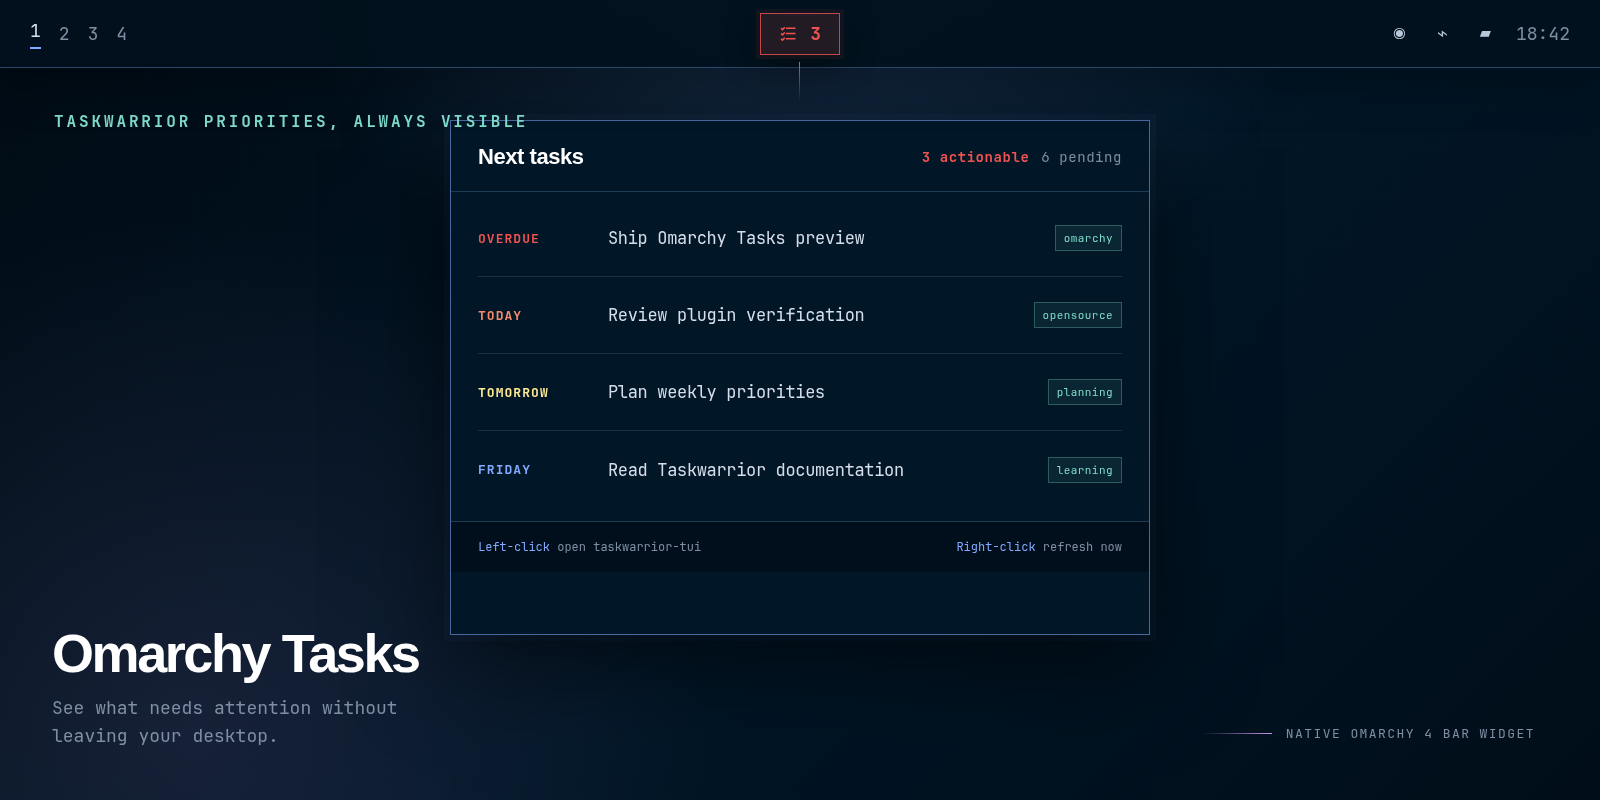
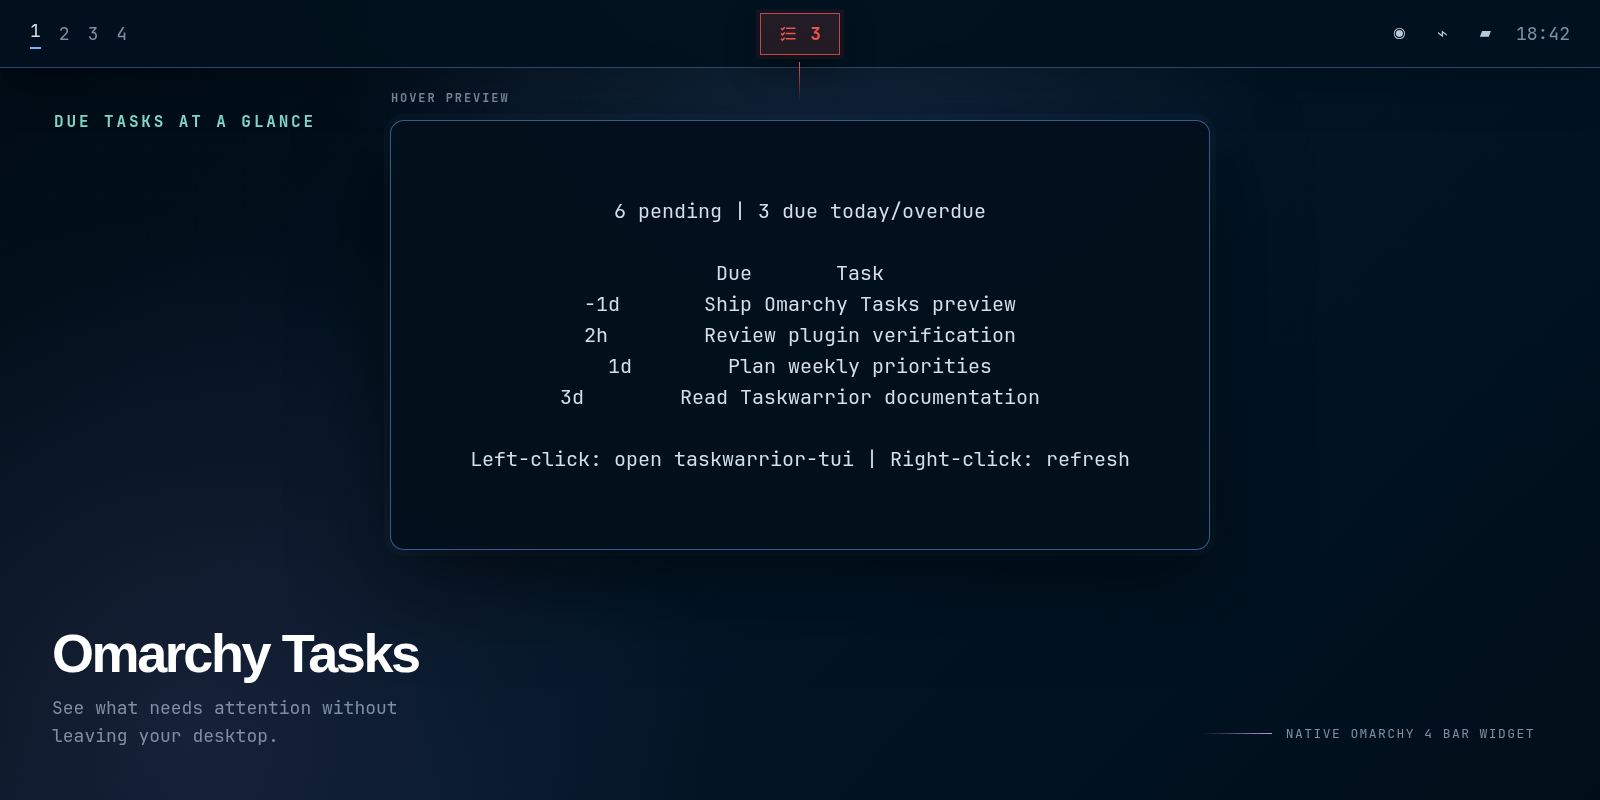
Align preview and dependency onboarding

diff --git a/BarWidget.qml b/BarWidget.qml
@@ -50,9 +50,9 @@ BarWidget {
     if (!root.bar) return
 
     if (!root.taskwarriorAvailable) {
-      root.bar.run("omarchy launch floating terminal with presentation omarchy pkg add task taskwarrior-tui")
+      root.bar.run("omarchy launch floating terminal with presentation \"omarchy pkg add task taskwarrior-tui && omarchy-shell io.github.janhesters.tasks refresh\"")
     } else if (!root.taskwarriorTuiAvailable) {
-      root.bar.run("omarchy launch floating terminal with presentation omarchy pkg add taskwarrior-tui")
+      root.bar.run("omarchy launch floating terminal with presentation \"omarchy pkg add taskwarrior-tui && omarchy-shell io.github.janhesters.tasks refresh\"")
     } else {
       root.bar.run("omarchy launch or focus tui taskwarrior-tui")
     }
@@ -64,7 +64,7 @@ BarWidget {
     return "open taskwarrior-tui"
   }
 
-  visible: !taskwarriorAvailable || total > 0 || showWhenEmpty
+  visible: !taskwarriorAvailable || !taskwarriorTuiAvailable || total > 0 || showWhenEmpty
   implicitWidth: visible ? button.implicitWidth : 0
   implicitHeight: visible ? button.implicitHeight : 0
 
@@ -113,7 +113,7 @@ BarWidget {
     active: root.actionable > 0 || !root.taskwarriorAvailable || !root.taskwarriorTuiAvailable
     activeColor: Color.urgent
     useActiveColor: true
-    dimmed: root.taskwarriorAvailable && root.total === 0
+    dimmed: root.taskwarriorAvailable && root.taskwarriorTuiAvailable && root.total === 0
     tooltipText: root.taskTooltip + "\n\nLeft-click: " + root.primaryActionLabel() + " | Right-click: refresh"
     onPressed: function(buttonCode) {
       if (buttonCode === Qt.RightButton) root.refresh()

diff --git a/README.md b/README.md
@@ -15,7 +15,7 @@ omarchy pkg add task taskwarrior-tui
 omarchy plugin add https://github.com/janhesters/omarchy-tasks.git --enable
 ```
 
-Omarchy plugins cannot install system packages. This is why the marketplace marks the plugin as requiring manual setup. If you add the plugin first, left-click its warning icon to open the same Omarchy package command in a terminal.
+The standard `omarchy plugin add … --enable` flow clones, validates, and enables the plugin but does not install system packages, so the marketplace marks this plugin as requiring manual setup. If you add the plugin first, left-click its warning icon to run the required Omarchy package installation in a visible terminal.
 
 ## What you get
 
@@ -52,7 +52,7 @@ omarchy-shell io.github.janhesters.tasks refresh
 - `taskwarrior-tui` provides the terminal interface opened on left-click.
 - `jq` serializes the helper output and ships with Omarchy.
 
-Normal task display is local and read-only. The plugin uses package management only when you explicitly left-click a missing-dependency warning; that action opens Omarchy's installer in a terminal for you to review.
+Normal task display is local and read-only. Package installation runs only after you explicitly left-click a missing-dependency warning, in a visible terminal, and may prompt for sudo.
 
 ## Update or remove
 
